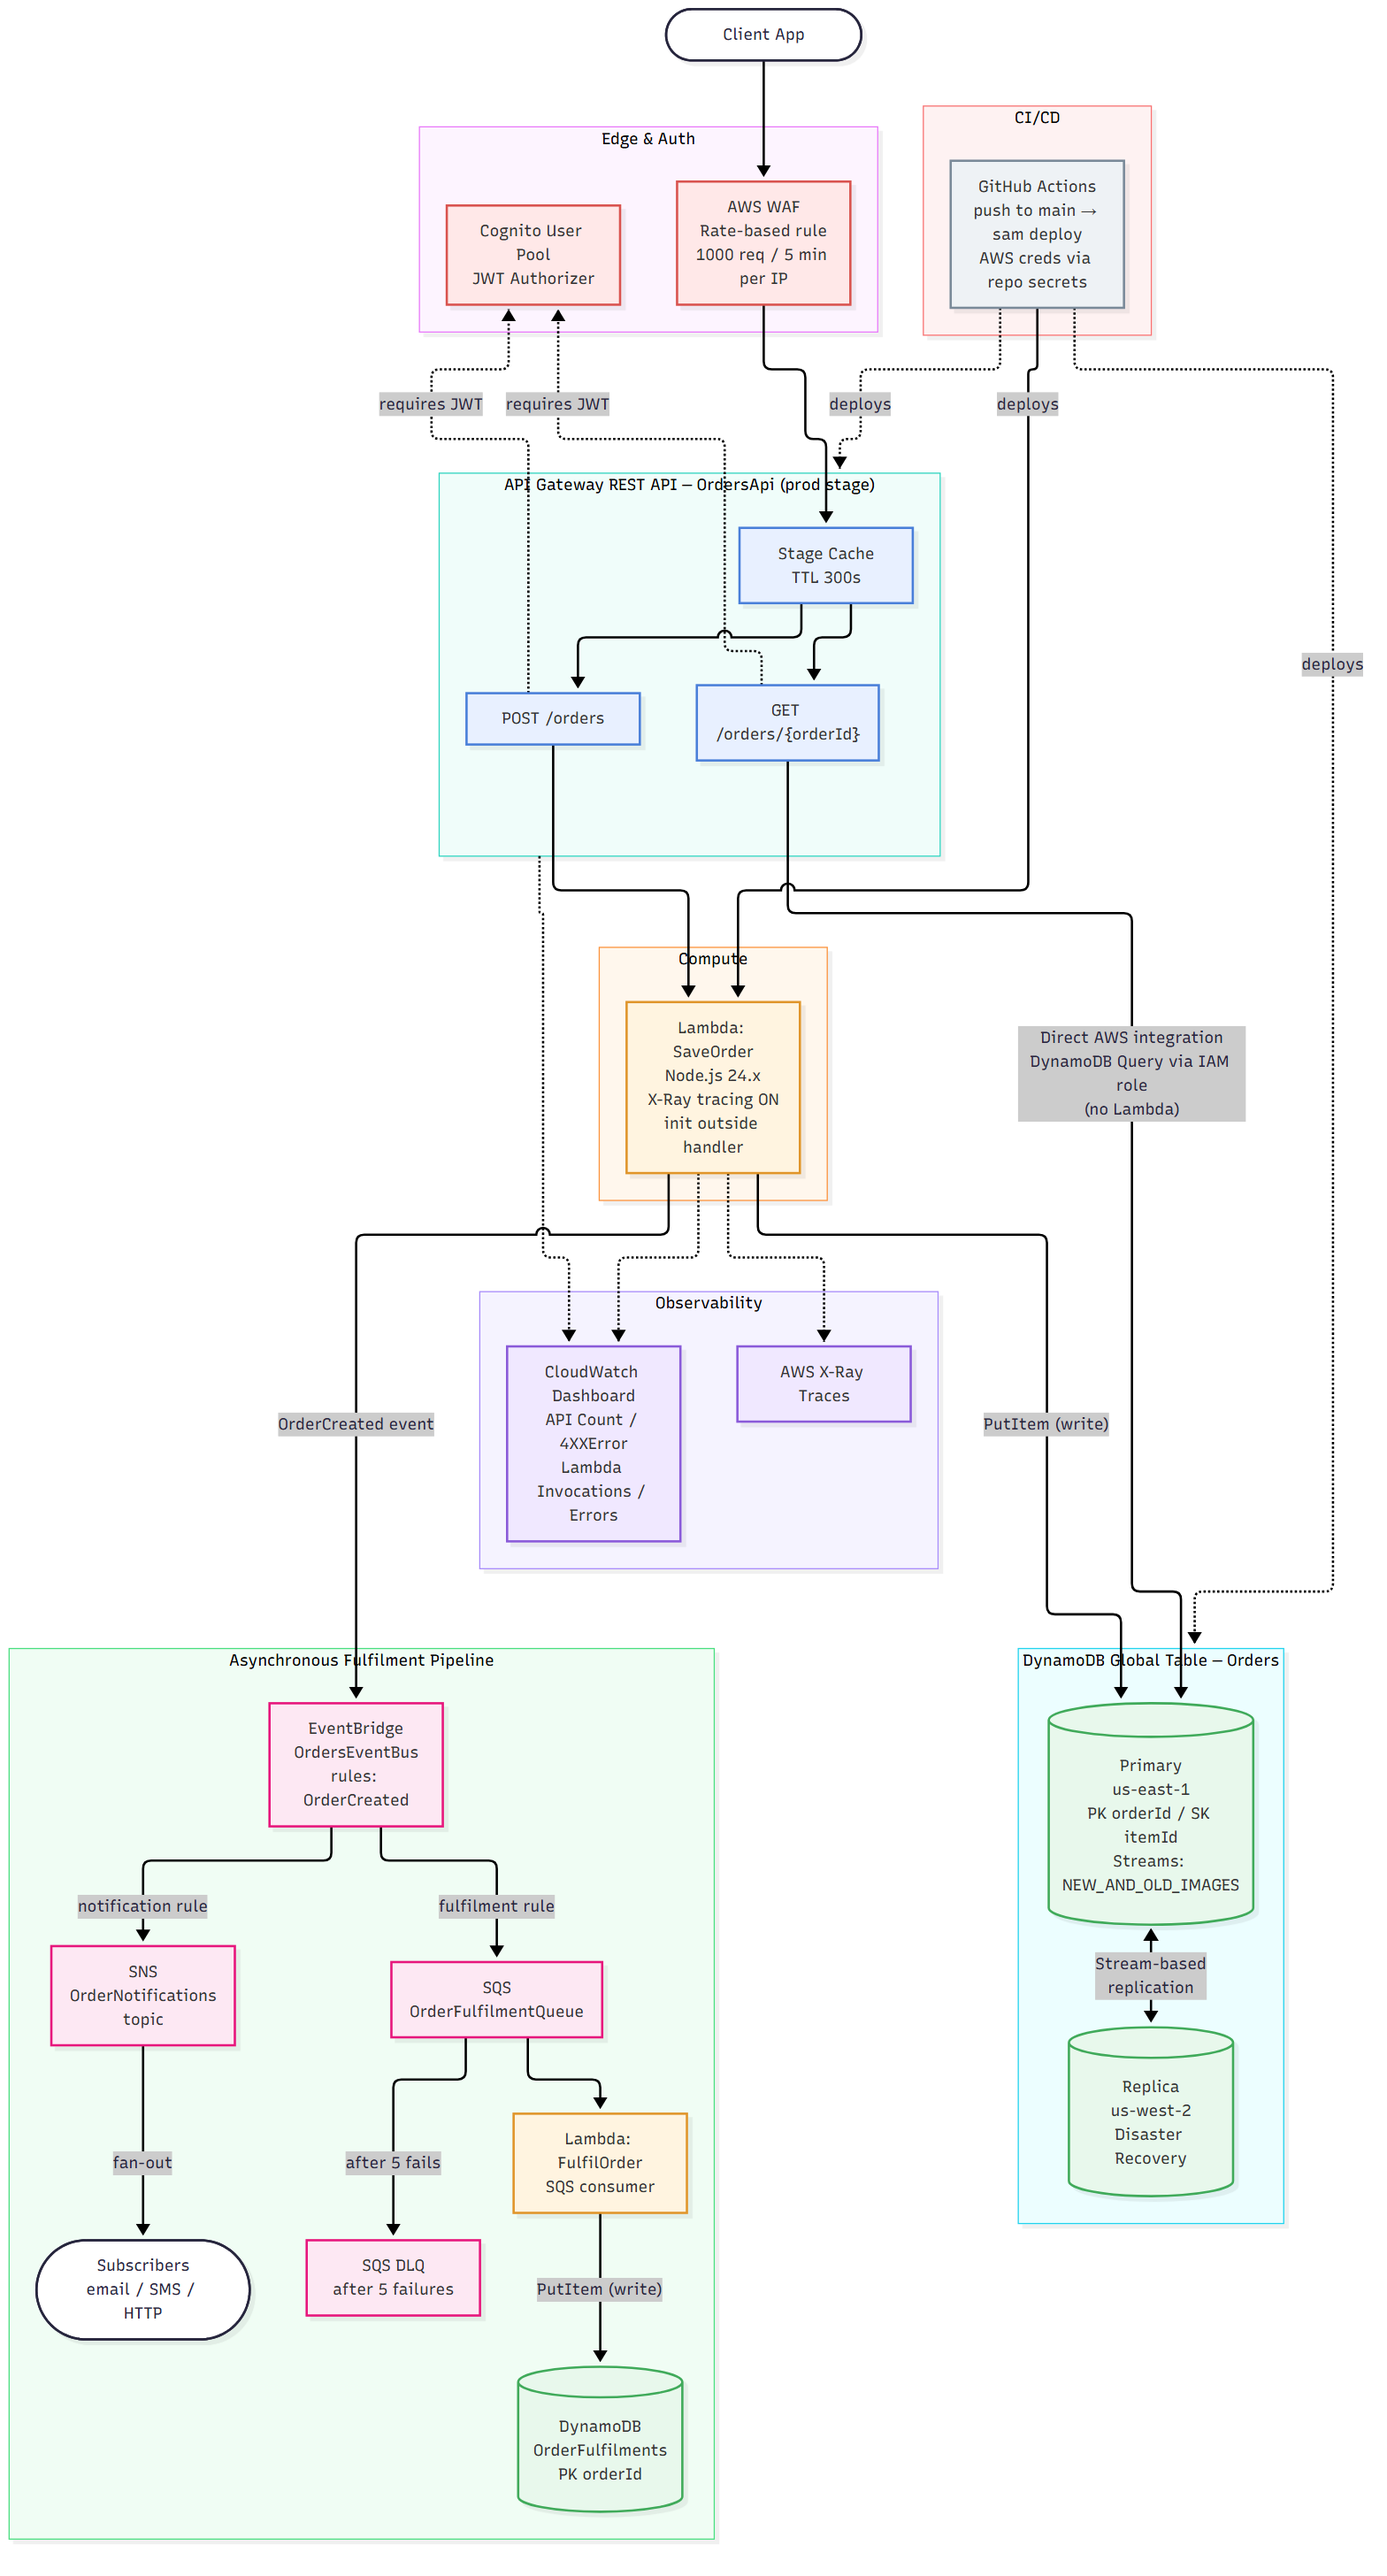
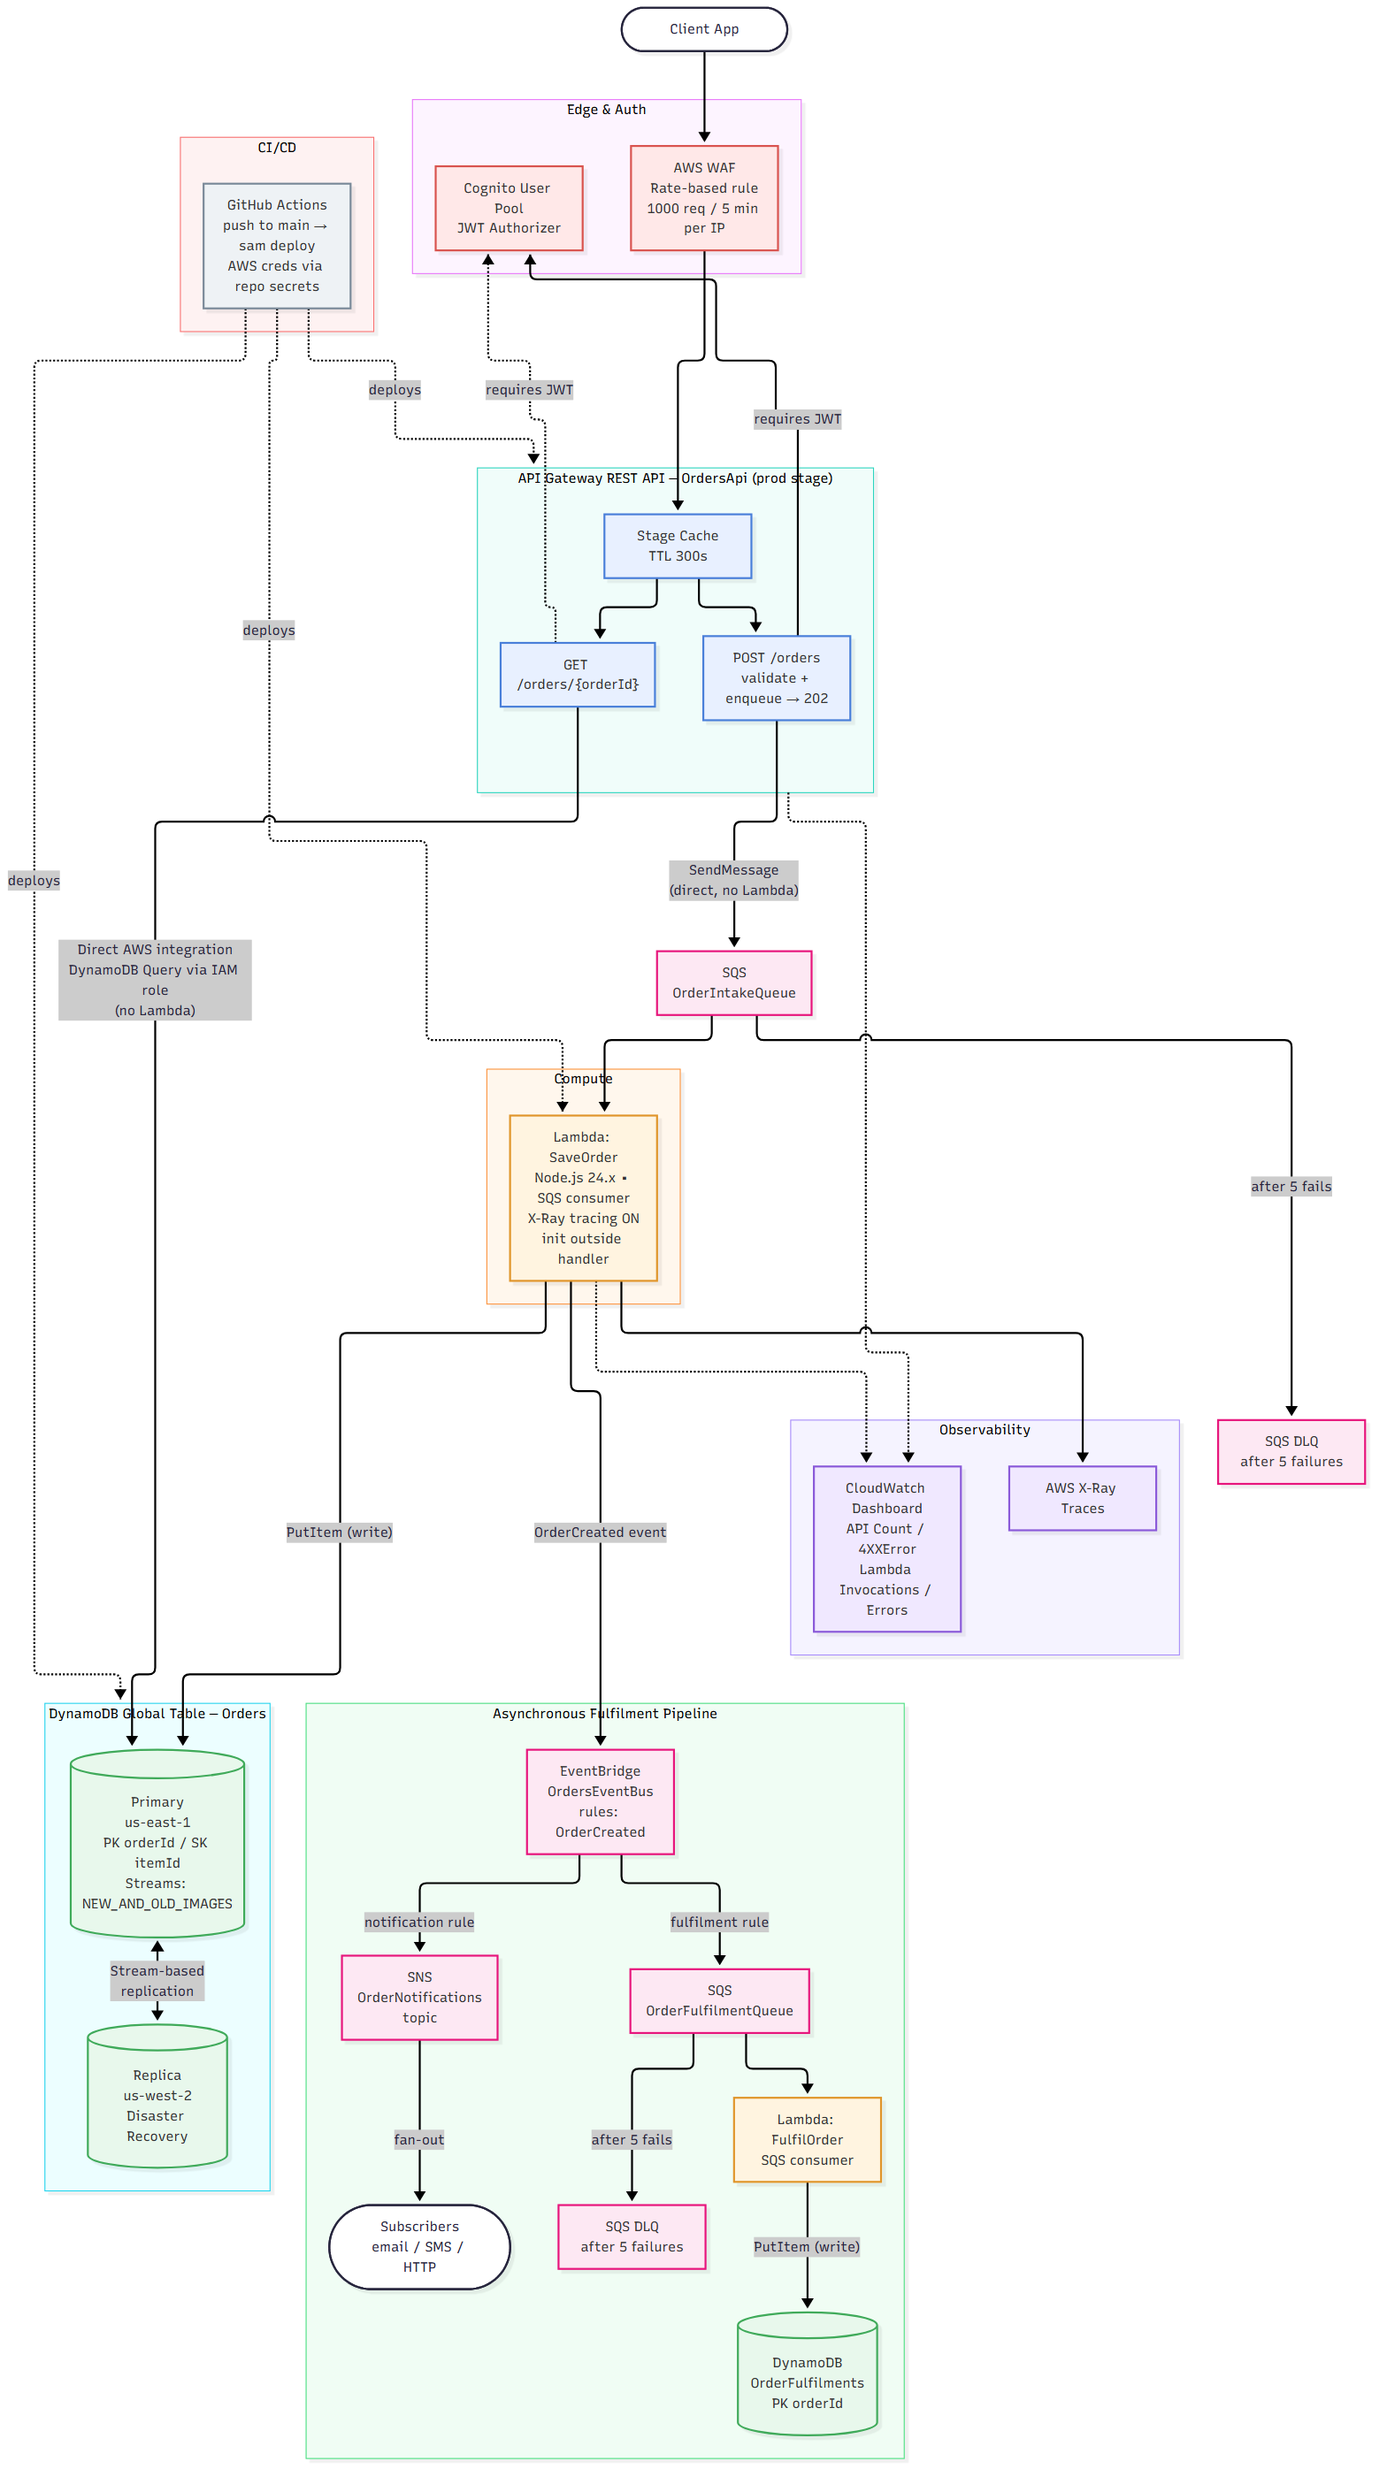
Docs: reflect async write path (API Gateway -> SQS intake -> SaveOrder)

diff --git a/docs/README.md b/docs/README.md
@@ -24,8 +24,9 @@ infrastructure-as-code with AWS SAM and deployed automatically via GitHub Action
 |-------|----------|---------|
 | Edge | **AWS WAF** | Rate-based rule blocks any IP exceeding 1000 requests per 5-minute window. |
 | Auth | **Cognito User Pool** | JWT authorizer; every API method requires a valid token. |
-| API | **API Gateway REST API** (`OrdersApi`, `prod` stage) | Public entry point with stage-level caching (300s TTL). |
-| Compute | **Lambda `SaveOrder`** (Node.js 24.x) | Validates and writes orders, then publishes an `OrderCreated` event. X-Ray tracing enabled; clients initialized outside the handler. |
+| API | **API Gateway REST API** (`OrdersApi`, `prod` stage) | Public entry point with stage-level caching (300s TTL). Validates the `POST /orders` body and enqueues it directly to SQS. |
+| Intake queue | **SQS** (`OrderIntakeQueue` + DLQ) | Decouples the API from order processing; API Gateway writes here and returns `202` immediately. |
+| Compute | **Lambda `SaveOrder`** (Node.js 24.x) | Consumes the intake queue, writes orders, then publishes an `OrderCreated` event. X-Ray tracing enabled; clients initialized outside the handler. |
 | Data | **DynamoDB Global Table** (`Orders`) | `orderId` (PK) + `itemId` (SK), on-demand capacity, streams-based replication to a second region. |
 | Events | **EventBridge custom bus** (`OrdersEventBus`) | Carries domain events; an `OrderCreated` rule routes matching events to SQS. |
 | Queue | **SQS** (`OrderFulfilmentQueue` + DLQ) | Buffers `OrderCreated` events for async processing; failed messages go to a dead-letter queue after 5 attempts. |
@@ -39,8 +40,8 @@ infrastructure-as-code with AWS SAM and deployed automatically via GitHub Action
 
 | Method | Path | Integration | Notes |
 |--------|------|-------------|-------|
-| `POST` | `/orders` | Lambda proxy | Creates an order via the `SaveOrder` function. |
-| `GET` | `/orders/{orderId}` | Direct AWS service integration | Queries DynamoDB directly through an IAM role and mapping templates — no Lambda in the path. |
+| `POST` | `/orders` | Direct AWS service integration → SQS | Validates the body against a JSON schema, sends the message to `OrderIntakeQueue`, and returns `202 Accepted` without waiting for processing — no Lambda in the request path. |
+| `GET` | `/orders/{orderId}` | Direct AWS service integration → DynamoDB | Queries DynamoDB directly through an IAM role and mapping templates — no Lambda in the path. |
 
 Both endpoints sit behind WAF, require a Cognito JWT, and are fronted by the 300s stage cache.
 
@@ -48,11 +49,13 @@ Both endpoints sit behind WAF, require a Cognito JWT, and are fronted by the 300
 
 ![Request Sequence Diagram](request-sequence.png)
 
-**Create (`POST /orders`):** WAF rate check → Cognito JWT validation → Lambda
-validates the payload → `PutItem` to DynamoDB → write replicates to the secondary
-region via streams → an `OrderCreated` event is published to EventBridge →
-`201 Created`. The event publish is non-blocking: if it fails, the order is still
-persisted and the request still succeeds.
+**Create (`POST /orders`) — asynchronous:** WAF rate check → Cognito JWT
+validation → API Gateway validates the body against a JSON schema → sends the
+message to `OrderIntakeQueue` (SQS) → returns **`202 Accepted`** immediately. The
+`SaveOrder` Lambda then consumes the queue, writes to DynamoDB (which replicates
+to the secondary region via streams), and publishes an `OrderCreated` event to
+EventBridge. Messages that fail processing five times move to the intake DLQ. The
+client is never blocked on order processing.
 
 **Read (`GET /orders/{orderId}`):** WAF → Cognito → if the response is cached
 (within the 300s TTL) it returns immediately with no backend call; otherwise
